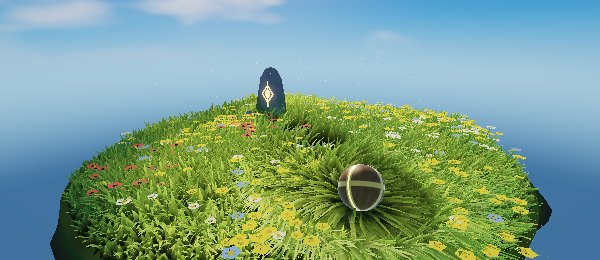
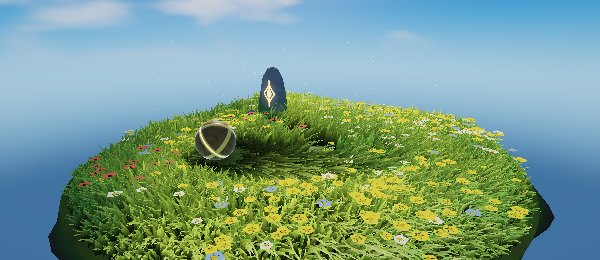
Improve rolling orb traction, analytical blade parting, and 128x128 persistent wake trail

diff --git a/docs/effects/grass/index.js b/docs/effects/grass/index.js
@@ -293,6 +293,8 @@ export function createGrassEffect(gl) {
   let orbPhase = 0;
   let orbPos = sampleOrbPath(0);
   let orbRot = new Float32Array([1, 0, 0, 0, 1, 0, 0, 0, 1]);
+  let orbVel = [0, 0];
+  let clickTarget = null;
   let orbBoost = 0;
   let showCardsOn = false;
   let showWireOn = false;
@@ -322,6 +324,9 @@ export function createGrassEffect(gl) {
       showWireOn = false;
       gustPulse = 0;
       orbBoost = 0;
+      clickTarget = null;
+      orbVel = [0, 0];
+      orbPos = sampleOrbPath(orbPhase);
       trBX.fill(0); trBZ.fill(0); trFlat.fill(0);
       uploadTrail();
     },
@@ -363,10 +368,17 @@ export function createGrassEffect(gl) {
         }
       }
       if (hit) {
-        stampTrail(hit[0], hit[1], 1.15, 1.0, 0.92, 0.84, 0.54);
+        if (step.stage >= 7) {
+          // Steer the rolling orb directly toward the clicked point on the meadow!
+          const r = Math.hypot(hit[0], hit[1]);
+          const maxR = MEADOW_R - 0.55;
+          clickTarget = r > maxR ? [(hit[0] / r) * maxR, (hit[1] / r) * maxR] : hit;
+          orbBoost = 1.0;
+        }
+        stampTrail(hit[0], hit[1], 1.10, 1.0, 0.90, 0.84, 0.54);
         uploadTrail();
       }
-      gustPulse = Math.max(gustPulse, 0.85);
+      gustPulse = Math.max(gustPulse, 0.78);
     },
     getTechBadge(stepIdx) {
       return [
@@ -389,32 +401,77 @@ export function createGrassEffect(gl) {
       gustPulse *= Math.exp(-dt * 1.15);
       orbBoost *= Math.exp(-dt * 1.05);
 
-      // Exponential spring-back decay of flattened meadow trails (~3.8s visible curved wake!)
-      const bendDecay = Math.exp(-dt * 0.62);
-      const flatDecay = Math.exp(-dt * 0.30);
+      // Longer spring-back decay (~5s curved ribbon trail snaking behind the rolling orb!)
+      const bendDecay = Math.exp(-dt * 0.36);
+      const flatDecay = Math.exp(-dt * 0.22);
       for (let i = 0; i < N; i++) {
         trBX[i] *= bendDecay;
         trBZ[i] *= bendDecay;
         trFlat[i] *= flatDecay;
       }
 
-      // Advance rolling brass-wood orb along meadow path and stamp its springy wake
-      const orbSpeed = (1.0 / 36.0) * (1.0 + orbBoost * 1.85);
+      // Advance rolling brass-wood orb: either steering smoothly toward user clickTarget or cruising meadow promenade!
+      const orbSpeed = (1.0 / 36.0) * (1.0 + orbBoost * 1.45);
       orbPhase = (orbPhase + dt * orbSpeed) % 1.0;
-      const nextPos = sampleOrbPath(orbPhase);
+      let targetXZ;
+      if (clickTarget) {
+        const dClick = Math.hypot(clickTarget[0] - orbPos[0], clickTarget[1] - orbPos[2]);
+        if (dClick < 0.32) {
+          clickTarget = null;
+          const pathP = sampleOrbPath(orbPhase);
+          targetXZ = [pathP[0], pathP[2]];
+        } else {
+          targetXZ = clickTarget;
+        }
+      } else {
+        const pathP = sampleOrbPath(orbPhase);
+        targetXZ = [pathP[0], pathP[2]];
+      }
+
+      const toX = targetXZ[0] - orbPos[0];
+      const toZ = targetXZ[1] - orbPos[2];
+      const toDist = Math.hypot(toX, toZ);
+      let nextX = orbPos[0], nextZ = orbPos[2];
+      if (clickTarget) {
+        const maxSpd = 3.2;
+        const desiredVx = (toX / Math.max(1e-4, toDist)) * Math.min(maxSpd, toDist * 3.8);
+        const desiredVz = (toZ / Math.max(1e-4, toDist)) * Math.min(maxSpd, toDist * 3.8);
+        const blend = 1.0 - Math.exp(-dt * 6.5);
+        orbVel[0] += (desiredVx - orbVel[0]) * blend;
+        orbVel[1] += (desiredVz - orbVel[1]) * blend;
+        nextX += orbVel[0] * dt;
+        nextZ += orbVel[1] * dt;
+      } else {
+        // Smoothly pull back onto promenade curve after a user click without teleporting
+        const pull = 1.0 - Math.exp(-dt * 4.5);
+        nextX = orbPos[0] + toX * pull;
+        nextZ = orbPos[2] + toZ * pull;
+        orbVel[0] = (nextX - orbPos[0]) / Math.max(1e-4, dt);
+        orbVel[1] = (nextZ - orbPos[2]) / Math.max(1e-4, dt);
+      }
+
+      // Keep clear of standing monolith
+      const sdx = nextX - (-1.26), sdz = nextZ - (-0.58);
+      const sd = Math.hypot(sdx, sdz);
+      if (sd < 1.25 && sd > 1e-4) {
+        nextX = -1.26 + (sdx / sd) * 1.25;
+        nextZ = -0.58 + (sdz / sd) * 1.25;
+      }
+
+      const nextPos = [nextX, hillHeight(nextX, nextZ) + ORB_R * 1.01, nextZ];
       const dx = nextPos[0] - orbPos[0];
       const dz = nextPos[2] - orbPos[2];
       const distMoved = Math.hypot(dx, dz);
       if (distMoved > 1e-5) {
-        const up = [0, 1, 0];
         const vel = [dx / distMoved, 0, dz / distMoved];
-        const axis = norm3(...cross3(up, vel));
+        const axis = norm3(...cross3([0, 1, 0], vel));
+        // True zero-slip rolling traction (arc length / radius)!
         orbRot = rotateMat3Axis(orbRot, axis[0], axis[1], axis[2], distMoved / ORB_R);
       }
       orbPos = nextPos;
 
       if (step && step.stage >= 7) {
-        stampTrail(orbPos[0], orbPos[2], 1.02, 1.0, 0.98, dx, dz);
+        stampTrail(orbPos[0], orbPos[2], 0.96, 1.0, 0.98, dx, dz);
       }
       uploadTrail();
     },
@@ -507,6 +564,7 @@ export function createGrassEffect(gl) {
           gl.uniform3fv(gl.getUniformLocation(progBlade, "uCamPos"), basis.pos);
           gl.uniform3fv(gl.getUniformLocation(progBlade, "uSunDir"), SUN_DIR);
           gl.uniform3fv(gl.getUniformLocation(progBlade, "uOrbPos"), orbPos);
+          gl.uniform1f(gl.getUniformLocation(progBlade, "uOrbRadius"), ORB_R);
           gl.uniform1f(gl.getUniformLocation(progBlade, "uWindPhase"), windPhase);
           gl.uniform1f(gl.getUniformLocation(progBlade, "uGust"), gustPulse);
           gl.uniform1i(gl.getUniformLocation(progBlade, "uStage"), stage);
@@ -526,6 +584,7 @@ export function createGrassEffect(gl) {
           gl.uniform3fv(gl.getUniformLocation(progFlower, "uSunDir"), SUN_DIR);
           gl.uniform3fv(gl.getUniformLocation(progFlower, "uCamPos"), basis.pos);
           gl.uniform3fv(gl.getUniformLocation(progFlower, "uOrbPos"), orbPos);
+          gl.uniform1f(gl.getUniformLocation(progFlower, "uOrbRadius"), ORB_R);
           gl.uniform1f(gl.getUniformLocation(progFlower, "uWindPhase"), windPhase);
           gl.uniform1f(gl.getUniformLocation(progFlower, "uGust"), gustPulse);
           gl.uniform1i(gl.getUniformLocation(progFlower, "uStage"), stage);

diff --git a/docs/effects/grass/shaders.js b/docs/effects/grass/shaders.js
@@ -589,6 +589,8 @@ layout(location = 2) in vec4 aInstMeta;  // x: yaw, y: width, z: lean, w: colorH
 
 uniform mat4 uViewProj;
 uniform vec3 uCamPos;
+uniform vec3 uOrbPos;
+uniform float uOrbRadius;
 uniform float uWindPhase;
 uniform float uGust;
 uniform int uStage;
@@ -599,6 +601,7 @@ out float vH;
 out float vSide;
 out float vColorHash;
 out float vWaveCrest;
+out float vFlat;
 out vec3 vWorldPos;
 out vec3 vNorm;
 
@@ -626,36 +629,49 @@ void main() {
   vec2 bendXZ = fwd * (lean * height * t * t);
   float yLocal = height * t;
   float waveCrest = 0.0;
+  float flatAmt = 0.0;
 
   // Step 5+ (2012-2026): Dynamic sweeping multi-octave wind waves!
   if (uStage >= 4) {
     vec2 w = evalMeadowWind(base.xz, uWindPhase, uGust, waveCrest);
-    // Individual micro-phase flutter so neighboring blades never move in lockstep
     float jitter = 0.85 + 0.30 * sin(cHash * 25.0 + uWindPhase * 6.2831853 * 12.0);
     bendXZ += w * (height * t * t * 1.15 * jitter);
   }
 
-  // Step 8 (2026): Persistent live interactive trail / orb trampling bend!
+  // Step 8 (2026): Crisp 128x128 persistent wake trail + exact analytical sphere-blade parting (ZERO clipping!)
   if (uStage >= 7) {
     vec2 tuv = base.xz / uTrailSpan + 0.5;
-    if (tuv.x > 0.01 && tuv.x < 0.99 && tuv.y > 0.01 && tuv.y < 0.99) {
+    if (tuv.x > 0.005 && tuv.x < 0.995 && tuv.y > 0.005 && tuv.y < 0.995) {
       vec3 tr = texture(uTrailTex, tuv).rgb;
-      vec2 push = (tr.rg * 2.0 - 1.0) * 1.65;
-      float flatAmt = clamp(tr.b, 0.0, 1.0);
-      bendXZ += push * (height * (0.35 * t + 0.75 * t * t));
-      yLocal *= mix(1.0, 0.24, flatAmt * (0.45 + 0.55 * t));
+      vec2 push = (tr.rg * 2.0 - 1.0) * 1.95;
+      flatAmt = clamp(tr.b, 0.0, 1.0);
+      // Damp wind sway when crushed flat into the ground, lay blades cleanly outward along wake
+      bendXZ = mix(bendXZ, push * (height * (0.48 * t + 0.72 * t * t)), smoothstep(0.0, 0.65, flatAmt));
+      yLocal *= mix(1.0, 0.14, flatAmt * (0.40 + 0.60 * t));
+    }
+    // Exact analytical collision right around the rolling orb perimeter so ZERO blades poke into the sphere!
+    vec2 away = base.xz - uOrbPos.xz;
+    float d = length(away);
+    float collR = uOrbRadius * 2.55;
+    if (d < collR) {
+      vec2 dir = (d > 1e-4) ? (away / d) : fwd;
+      float prox = 1.0 - smoothstep(uOrbRadius * 0.55, collR, d);
+      float pushOut = (uOrbRadius * 1.15 - min(d, uOrbRadius * 1.15)) + prox * height * 1.05;
+      bendXZ = mix(bendXZ, dir * (pushOut * (0.45 * t + 0.75 * t * t)), prox);
+      yLocal *= mix(1.0, 0.10, prox * smoothstep(0.0, 0.35, t));
+      flatAmt = max(flatAmt, prox);
     }
   }
 
   // Arc-length preservation: strong wind / flattening naturally lowers blade tips instead of stretching!
   float bLen = length(bendXZ);
-  float arcDrop = sqrt(max(0.18, 1.0 - min(0.82, (bLen / max(0.08, height)) * 0.52)));
+  float arcDrop = sqrt(max(0.14, 1.0 - min(0.86, (bLen / max(0.08, height)) * 0.54)));
   yLocal *= arcDrop;
 
   vec3 pos = base + vec3(bendXZ.x + right.x * side * width, yLocal, bendXZ.y + right.y * side * width);
 
   // Analytical curved tangent & tubular V-crease normal so sunlight glides smoothly across wind waves!
-  vec3 tang = normalize(vec3(bendXZ.x * 2.0 + fwd.x * 0.05, max(0.12, yLocal), bendXZ.y * 2.0 + fwd.y * 0.05));
+  vec3 tang = normalize(vec3(bendXZ.x * 2.0 + fwd.x * 0.05, max(0.08, yLocal), bendXZ.y * 2.0 + fwd.y * 0.05));
   vec3 nBase = normalize(cross(vec3(right.x, 0.0, right.y), tang));
   if (nBase.y < 0.0) nBase = -nBase;
   vec3 nCreased = normalize(mix(nBase, vec3(0.0, 1.0, 0.0), 0.22) + vec3(right.x, 0.0, right.y) * (side * 0.42));
@@ -664,6 +680,7 @@ void main() {
   vSide = side;
   vColorHash = cHash;
   vWaveCrest = waveCrest;
+  vFlat = flatAmt;
   vWorldPos = pos;
   vNorm = nCreased;
 
@@ -679,6 +696,7 @@ in float vH;
 in float vSide;
 in float vColorHash;
 in float vWaveCrest;
+in float vFlat;
 in vec3 vWorldPos;
 in vec3 vNorm;
 
@@ -757,8 +775,10 @@ void main() {
   // Crisp anisotropic grazing specular glint along wind waves
   float spec = pow(ndh, 36.0) * (0.18 + 0.34 * vWaveCrest) * pow(vH, 1.5) * sunVis;
 
-  vec3 col = albedo * rootAO * (skyAmb * 1.05 + sunCol * (0.18 + 0.95 * ndl) * sunVis)
-           + sssCol
+  // Crushed/parted trail shading: pressed-down blades sit deeper in shade & reveal a clear lush wake track!
+  float trackShade = mix(1.0, 0.56, vFlat * (1.0 - vH * 0.35));
+  vec3 col = albedo * rootAO * trackShade * (skyAmb * 1.05 + sunCol * (0.18 + 0.95 * ndl) * sunVis)
+           + sssCol * mix(1.0, 0.35, vFlat)
            + sunCol * spec * 0.52;
   outColor = vec4(col, 1.0);
 }
@@ -778,6 +798,8 @@ layout(location = 3) in vec4 aInstPosH; // xyz: base, w: stalk height
 layout(location = 4) in vec4 aInstMeta; // x: yaw, y: headScale, z: species 0..3, w: seed
 
 uniform mat4 uViewProj;
+uniform vec3 uOrbPos;
+uniform float uOrbRadius;
 uniform float uWindPhase;
 uniform float uGust;
 uniform int uStage;
@@ -817,12 +839,22 @@ void main() {
 
   if (uStage >= 7) {
     vec2 tuv = base.xz / uTrailSpan + 0.5;
-    if (tuv.x > 0.01 && tuv.x < 0.99 && tuv.y > 0.01 && tuv.y < 0.99) {
+    if (tuv.x > 0.005 && tuv.x < 0.995 && tuv.y > 0.005 && tuv.y < 0.995) {
       vec3 tr = texture(uTrailTex, tuv).rgb;
-      vec2 push = (tr.rg * 2.0 - 1.0) * 1.65;
+      vec2 push = (tr.rg * 2.0 - 1.0) * 1.95;
       float flatAmt = clamp(tr.b, 0.0, 1.0);
-      bendXZ += push * (h * (0.35 * t + 0.75 * t * t));
-      yLocal *= mix(1.0, 0.28, flatAmt * (0.45 + 0.55 * t));
+      bendXZ = mix(bendXZ, push * (h * (0.48 * t + 0.72 * t * t)), smoothstep(0.0, 0.65, flatAmt));
+      yLocal *= mix(1.0, 0.18, flatAmt * (0.40 + 0.60 * t));
+    }
+    vec2 away = base.xz - uOrbPos.xz;
+    float d = length(away);
+    float collR = uOrbRadius * 2.55;
+    if (d < collR) {
+      vec2 dir = (d > 1e-4) ? (away / d) : vec2(c, s);
+      float prox = 1.0 - smoothstep(uOrbRadius * 0.55, collR, d);
+      float pushOut = (uOrbRadius * 1.15 - min(d, uOrbRadius * 1.15)) + prox * h * 1.05;
+      bendXZ = mix(bendXZ, dir * (pushOut * (0.45 * t + 0.75 * t * t)), prox);
+      yLocal *= mix(1.0, 0.14, prox * smoothstep(0.0, 0.35, t));
     }
   }
 

diff --git a/docs/effects/grass/scene.js b/docs/effects/grass/scene.js
@@ -9,10 +9,10 @@
 import { mulberry32, norm3 } from "../../src/gl-utils.js";
 
 export const MEADOW_R = 4.65;
-export const TRAIL_RES = 64;
-export const TRAIL_SPAN = 9.8; // covers [-4.9, +4.9] world XZ
+export const TRAIL_RES = 128;
+export const TRAIL_SPAN = 9.8; // covers [-4.9, +4.9] world XZ (~7.6 cm/texel crisp trail!)
 export const STONE_POS = [-1.12, 0, -0.62];
-export const ORB_R = 0.34;
+export const ORB_R = 0.40;
 
 export const STEP_STONES = [
   { x: -0.45, z: 0.25, r: 0.34, rot: 0.4 },
@@ -39,20 +39,23 @@ export function hillNormal(x, z) {
   return norm3(-hx, 2 * e, -hz);
 }
 
-// Compute smooth terrain-clamped meadow orb position along an elliptical figure-8 path
+// Wide, hero-framed sunlit meadow promenade (5 lively laps per 36s cycle — always in front of hilltop crest!)
 export function sampleOrbPath(uPhase) {
-  const a = uPhase * Math.PI * 2.0 * 2.0; // 2 clean loops per 36s video cycle
-  const x = 0.58 + 2.05 * Math.sin(a);
-  const z = 0.42 + 1.48 * Math.sin(a * 0.5 + 0.65) * Math.cos(a * 0.5 - 0.2) * 1.55;
-  // Keep clear of the standing runestone
-  const dx = x - STONE_POS[0], dz = z - STONE_POS[2];
+  // Stays in x in [-1.75..+1.98], z in [-0.28..+2.00]: 100% visible in both 9:16 & 16:9, sweeping foreground at Hook & Finale!
+  const a = 0.10 + uPhase * Math.PI * 2.0 * 5.0;
+  let ox = 0.12 + 1.84 * Math.cos(a);
+  let oz = 0.86 + 1.14 * Math.sin(a);
+  // Smooth gentle detour around the standing runestone & companion boulder
+  const sx = STONE_POS[0] - 0.14, sz = STONE_POS[2] + 0.04;
+  const dx = ox - sx, dz = oz - sz;
   const d = Math.hypot(dx, dz);
-  let ox = x, oz = z;
-  if (d < 1.18 && d > 1e-4) {
-    ox = STONE_POS[0] + (dx / d) * 1.18;
-    oz = STONE_POS[2] + (dz / d) * 1.18;
+  const minD = 1.42;
+  if (d < minD && d > 1e-4) {
+    const push = (minD - d);
+    ox += (dx / d) * push;
+    oz += (dz / d) * push;
   }
-  const oy = hillHeight(ox, oz) + ORB_R * 0.94;
+  const oy = hillHeight(ox, oz) + ORB_R * 1.01;
   return [ox, oy, oz];
 }
 

diff --git a/docs/src/catalog.js b/docs/src/catalog.js
@@ -1490,8 +1490,8 @@ export const EFFECTS = [
         tabPl: "Żywe ścieżki",
         en: "Interactive Meadow & Spring-Back Trails",
         pl: "Interaktywna łąka i sprężyste ścieżki",
-        noteEn: "A real-time 64×64 persistent bend field parts all 22,000 blades and wildflowers around the rolling carved orb, leaving a flattened trail that springs back up. Click anywhere on the meadow to part the grass live!",
-        notePl: "Pole ugięcia 64×64 w czasie rzeczywistym rozchyla 22 000 źdźbeł i kwiatów wokół toczącej się kuli, zostawiając wygniecioną ścieżkę, która powoli wraca do pionu. Kliknij dowolne miejsce na łące!",
+        noteEn: "A real-time 128×128 persistent bend field plus analytical sphere collision parts all 22,000 blades and wildflowers around the rolling carved orb, leaving a lush curved trail that springs back up. Click anywhere on the meadow to roll the orb there!",
+        notePl: "Pole ugięcia 128×128 w czasie rzeczywistym i dokładna kolizja ze sferą rozchylają 22 000 źdźbeł i kwiatów wokół toczącej się kuli, zostawiając długą wygniecioną ścieżkę, która powoli wstaje. Kliknij dowolne miejsce na łące, by posłać tam kulę!",
         stage: 7,
         compareLeft: 0,
         compareRight: 7,

diff --git a/docs/effects/grass/README.md b/docs/effects/grass/README.md
@@ -13,7 +13,7 @@ Eight eras of real-time game grass and foliage rendered live in raw WebGL2 on a 
 | **G5** | 2012 | **Travelling Wind Waves & Root AO** | Multi-octave curl wind fronts with arc-length-preserving bending, dark earthy root ambient occlusion, and V-crease blade specular sheen across wave crests. |
 | **G6** | 2017 | **Backlit SSS & Painterly Meadow** | Warm golden translucent subsurface scattering through backlit blade tips paired with painterly macro meadow color variation. |
 | **G7** | 2022 | **Wildflowers, Cloud Shadows & Pollen** | 650 swaying 3D wildflowers (buttercups, daisies, cornflowers, poppies) synced to the wind field, drifting overhead cloud shadows, and sunlit floating pollen motes. Press **Wind Gust**! |
-| **G8** | 2026 | **Live Interactive Meadow & Trails** | Real-time 64×64 persistent bend/spring trail field parted by a rolling carved brass-and-oak orb and mouse/touch clicks, leaving flattened curved wakes that spring back upright. |
+| **G8** | 2026 | **Live Interactive Meadow & Trails** | Real-time 128×128 persistent bend/spring trail field plus exact analytical sphere-blade parting driven by a rolling carved brass-and-oak orb and mouse/touch clicks. |
 
 ## Files
 
